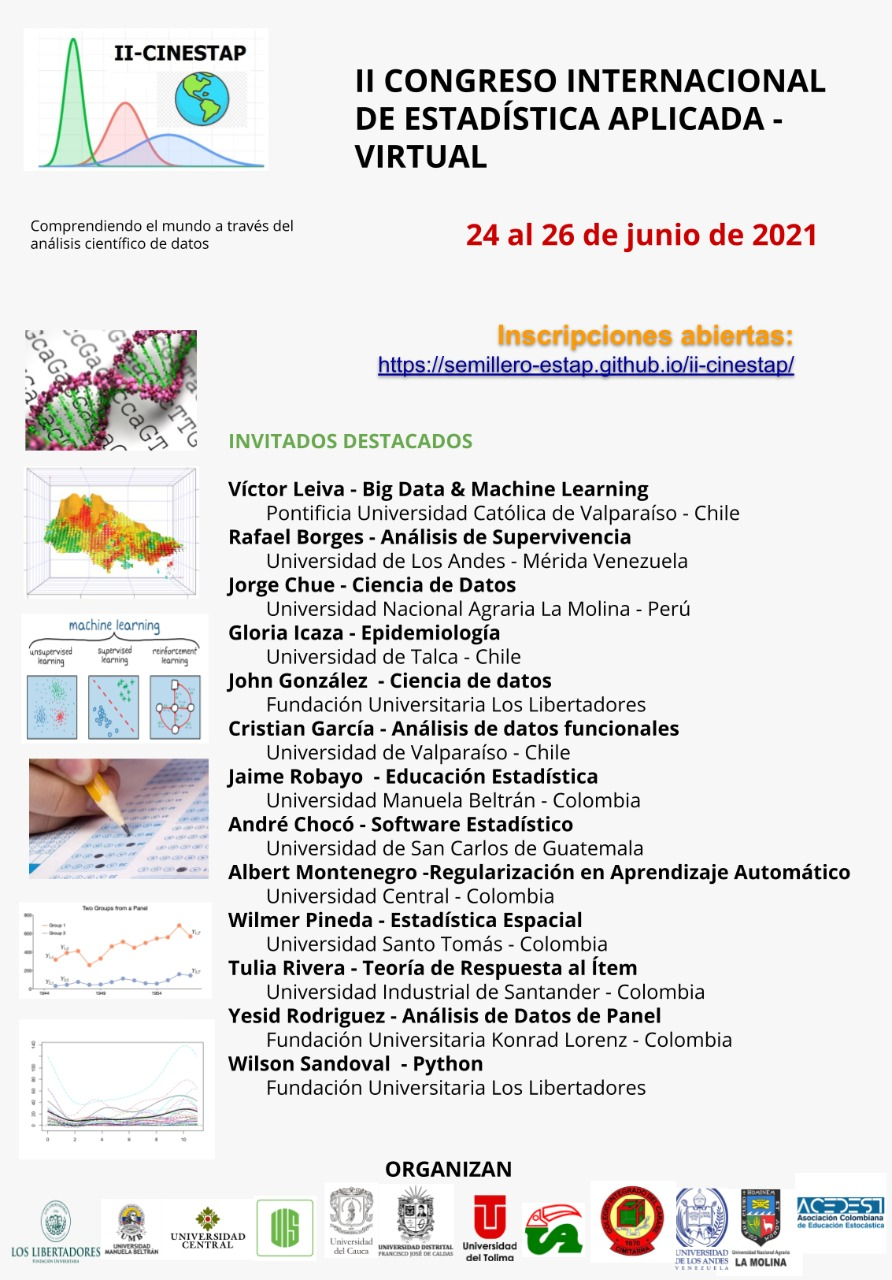
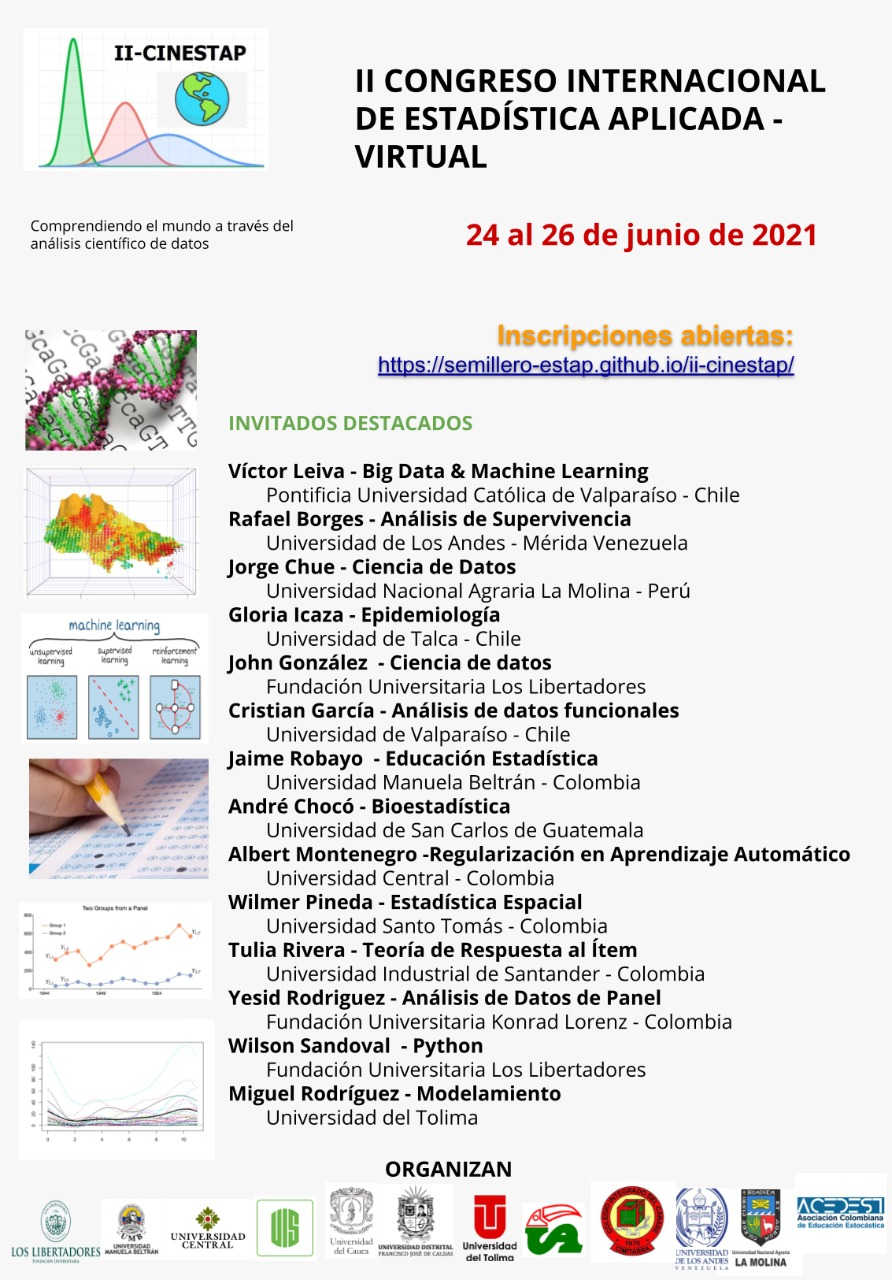
updated

Changed region(s): [[0.2422, 0.3125, 0.9686, 0.875]]

diff --git a/schedule.html b/schedule.html
@@ -63,60 +63,62 @@
             <tr class="text-center">
                 <th class="align-middle" scope="col">8:00-8:45</th>
                 <td>Palabras de Apertura <br> Comite <br> Organizador</td>
-                <td>Title <br> Albert Montenegro </td>
-                <td>PONENCIA <br> Autor <br> Tema</td>
-                <td class="align-middle"><a href="https://meet.google.com/jbn-gkzy-ces"><button type="button" class="btn btn-success" style="background-color: #004f4A;">Entrar</button></a></td>
+                <td>Albert Montenegro </td>
+                <td>Miguel Rodríguez</td>
+                <td rowspan="4" class="align-middle"><a href="https://teams.microsoft.com/l/meetup-join/19%3ameeting_NTE5NmZkN2YtZjc4ZS00ZTMzLWJjNTctZTYzYWE0ZDcwYWIx%40thread.v2/0?context=%7b%22Tid%22%3a%2298c5292c-6f85-4565-8ace-969dada78808%22%2c%22Oid%22%3a%2237b40ab0-11f2-4f5a-b87b-81dd2c663023%22%7d"><button type="button" class="btn btn-success" style="background-color: #004f4A;">Entrar</button></a></td>
             </tr>
             <tr class="text-center">
                 <th class="align-middle" scope="col">8:45-9:30</th>
-                <td>Title <br> Gloria  Icaza</td>
-                <td>Title <br> Jorge Chue</td>
-                <td>Title <br> Rafael Borges</td>
-                <td class="align-middle"><a href=""><button type="button" class="btn btn-success" style="background-color: #004f4A;">Entrar</button></a></td>
+                <td>Gloria  Icaza</td>
+                <td>Jorge Chue</td>
+                <td>Rafael Borges</td>
+               
             </tr>
             <tr class="text-center">
                 <th class=" align-middle" scope="col">9:30-10:15</th>
-                <td>Title <br> Jaime Robayo</td>
-                <td>Title <br> Yesid Rodríguez</td>
-                <td>Title <br> Tulia Rivera</td>
-                <td class="align-middle"><a href=""><button type="button" class="btn btn-success" style="background-color: #004f4A;">Entrar</button></a></td>
+                <td>Jaime Robayo</td>
+                <td>Yesid Rodríguez</td>
+                <td>Tulia Rivera</td>
+                
             </tr>
             <tr class="text-center">
                 <th rowspan="2" class="align-middle" scope="col">10:15-12:00</th>
                 <td>PONENCIAS </td>
                 <td>PONENCIAS </td>
                 <td>PONENCIAS </td>
-                <td rowspan="2" class="align-middle"><a href=""><button type="button" class="btn btn-success" style="background-color: #004f4A;">Entrar</button></a></td>
+                
             </tr>
-            <tr>
+            <tr class="text-center">
               <td colspan="3" class="text-center table-info">Taller 1</td>
+              <td class="align-middle"><a href="https://teams.microsoft.com/l/meetup-join/19%3ameeting_MDE4MDJkNjgtYzU5Yi00NGM0LThhYjAtNDdmNDhjNzlhMThl%40thread.v2/0?context=%7b%22Tid%22%3a%2298c5292c-6f85-4565-8ace-969dada78808%22%2c%22Oid%22%3a%2269f97783-94c3-49ec-95b1-cace5dfbfdaa%22%7d"><button type="button" class="btn btn-success" style="background-color: #004f4A;">Entrar</button></a></td>
             </tr>
             <tr>
                 <th scope="col" colspan="5" class="text-center table-success">RECESO</th>
             </tr>
             <tr class="text-center">
                 <th class="align-middle" scope="col">14:00-14:45</th>
-                <td>Title <br> Cristian García </td>
-                <td>Title <br> Jhon Gonzalez </td>
+                <td>Cristian García </td>
+                <td>Jhon Gonzalez </td>
                 <td>PONENCIAS </td>
-                <td class="align-middle"><a href=""><button type="button" class="btn btn-success" style="background-color: #004f4A;">Entrar</button></a></td>
+                <td rowspan="2" class="align-middle"><a href="https://teams.microsoft.com/l/meetup-join/19%3ameeting_MjZmZTIyM2ItOWRjMi00YTQ1LWFjNDEtYWZhM2JkZGI0ZTcw%40thread.v2/0?context=%7b%22Tid%22%3a%2298c5292c-6f85-4565-8ace-969dada78808%22%2c%22Oid%22%3a%2237b40ab0-11f2-4f5a-b87b-81dd2c663023%22%7d"><button type="button" class="btn btn-success" style="background-color: #004f4A;">Entrar</button></a></td>
             </tr>
             <tr class="text-center">
                 <th rowspan="2" class="align-middle" scope="col">15:00-17:00</th>
                 <td>PONENCIAS </td>
                 <td>PONENCIAS </td>
                 <td>PONENCIAS </td>
-                <td rowspan="2" class="align-middle"><a href=""><button type="button" class="btn btn-success" style="background-color: #004f4A;">Entrar</button></a></td>
+                
             </tr>
-            <tr>
+            <tr class="text-center">
               <td colspan="3" class="text-center table-info">Taller 2</td>
+              <td class="align-middle"><a href="https://teams.microsoft.com/l/meetup-join/19%3ameeting_NmFhNzQ2ZjUtNWVlNS00MWI4LWEzMmUtZGE1NmZjMmIyZTQy%40thread.v2/0?context=%7b%22Tid%22%3a%2298c5292c-6f85-4565-8ace-969dada78808%22%2c%22Oid%22%3a%2269f97783-94c3-49ec-95b1-cace5dfbfdaa%22%7d"><button type="button" class="btn btn-success" style="background-color: #004f4A;">Entrar</button></a></td>
             </tr>
             <tr class="text-center">
                 <th class="align-middle" scope="col">17:00-17:45</th>
-                <td>Title <br> André Choco</td>
-                <td>Title  <br> Victor Leyva</td>
+                <td>André Chocó</td>
+                <td>Victor Leiva</td>
                 <td>PONENCIAS </td>
-                <td class="align-middle"><a href=""><button type="button" class="btn btn-success" style="background-color: #004f4A;">Entrar</button></a></td>
+                <td class="align-middle"><a href="https://teams.microsoft.com/l/meetup-join/19%3ameeting_MjZmZTIyM2ItOWRjMi00YTQ1LWFjNDEtYWZhM2JkZGI0ZTcw%40thread.v2/0?context=%7b%22Tid%22%3a%2298c5292c-6f85-4565-8ace-969dada78808%22%2c%22Oid%22%3a%2237b40ab0-11f2-4f5a-b87b-81dd2c663023%22%7d"><button type="button" class="btn btn-success" style="background-color: #004f4A;">Entrar</button></a></td>
             </tr>
         </tbody>
     </table>
